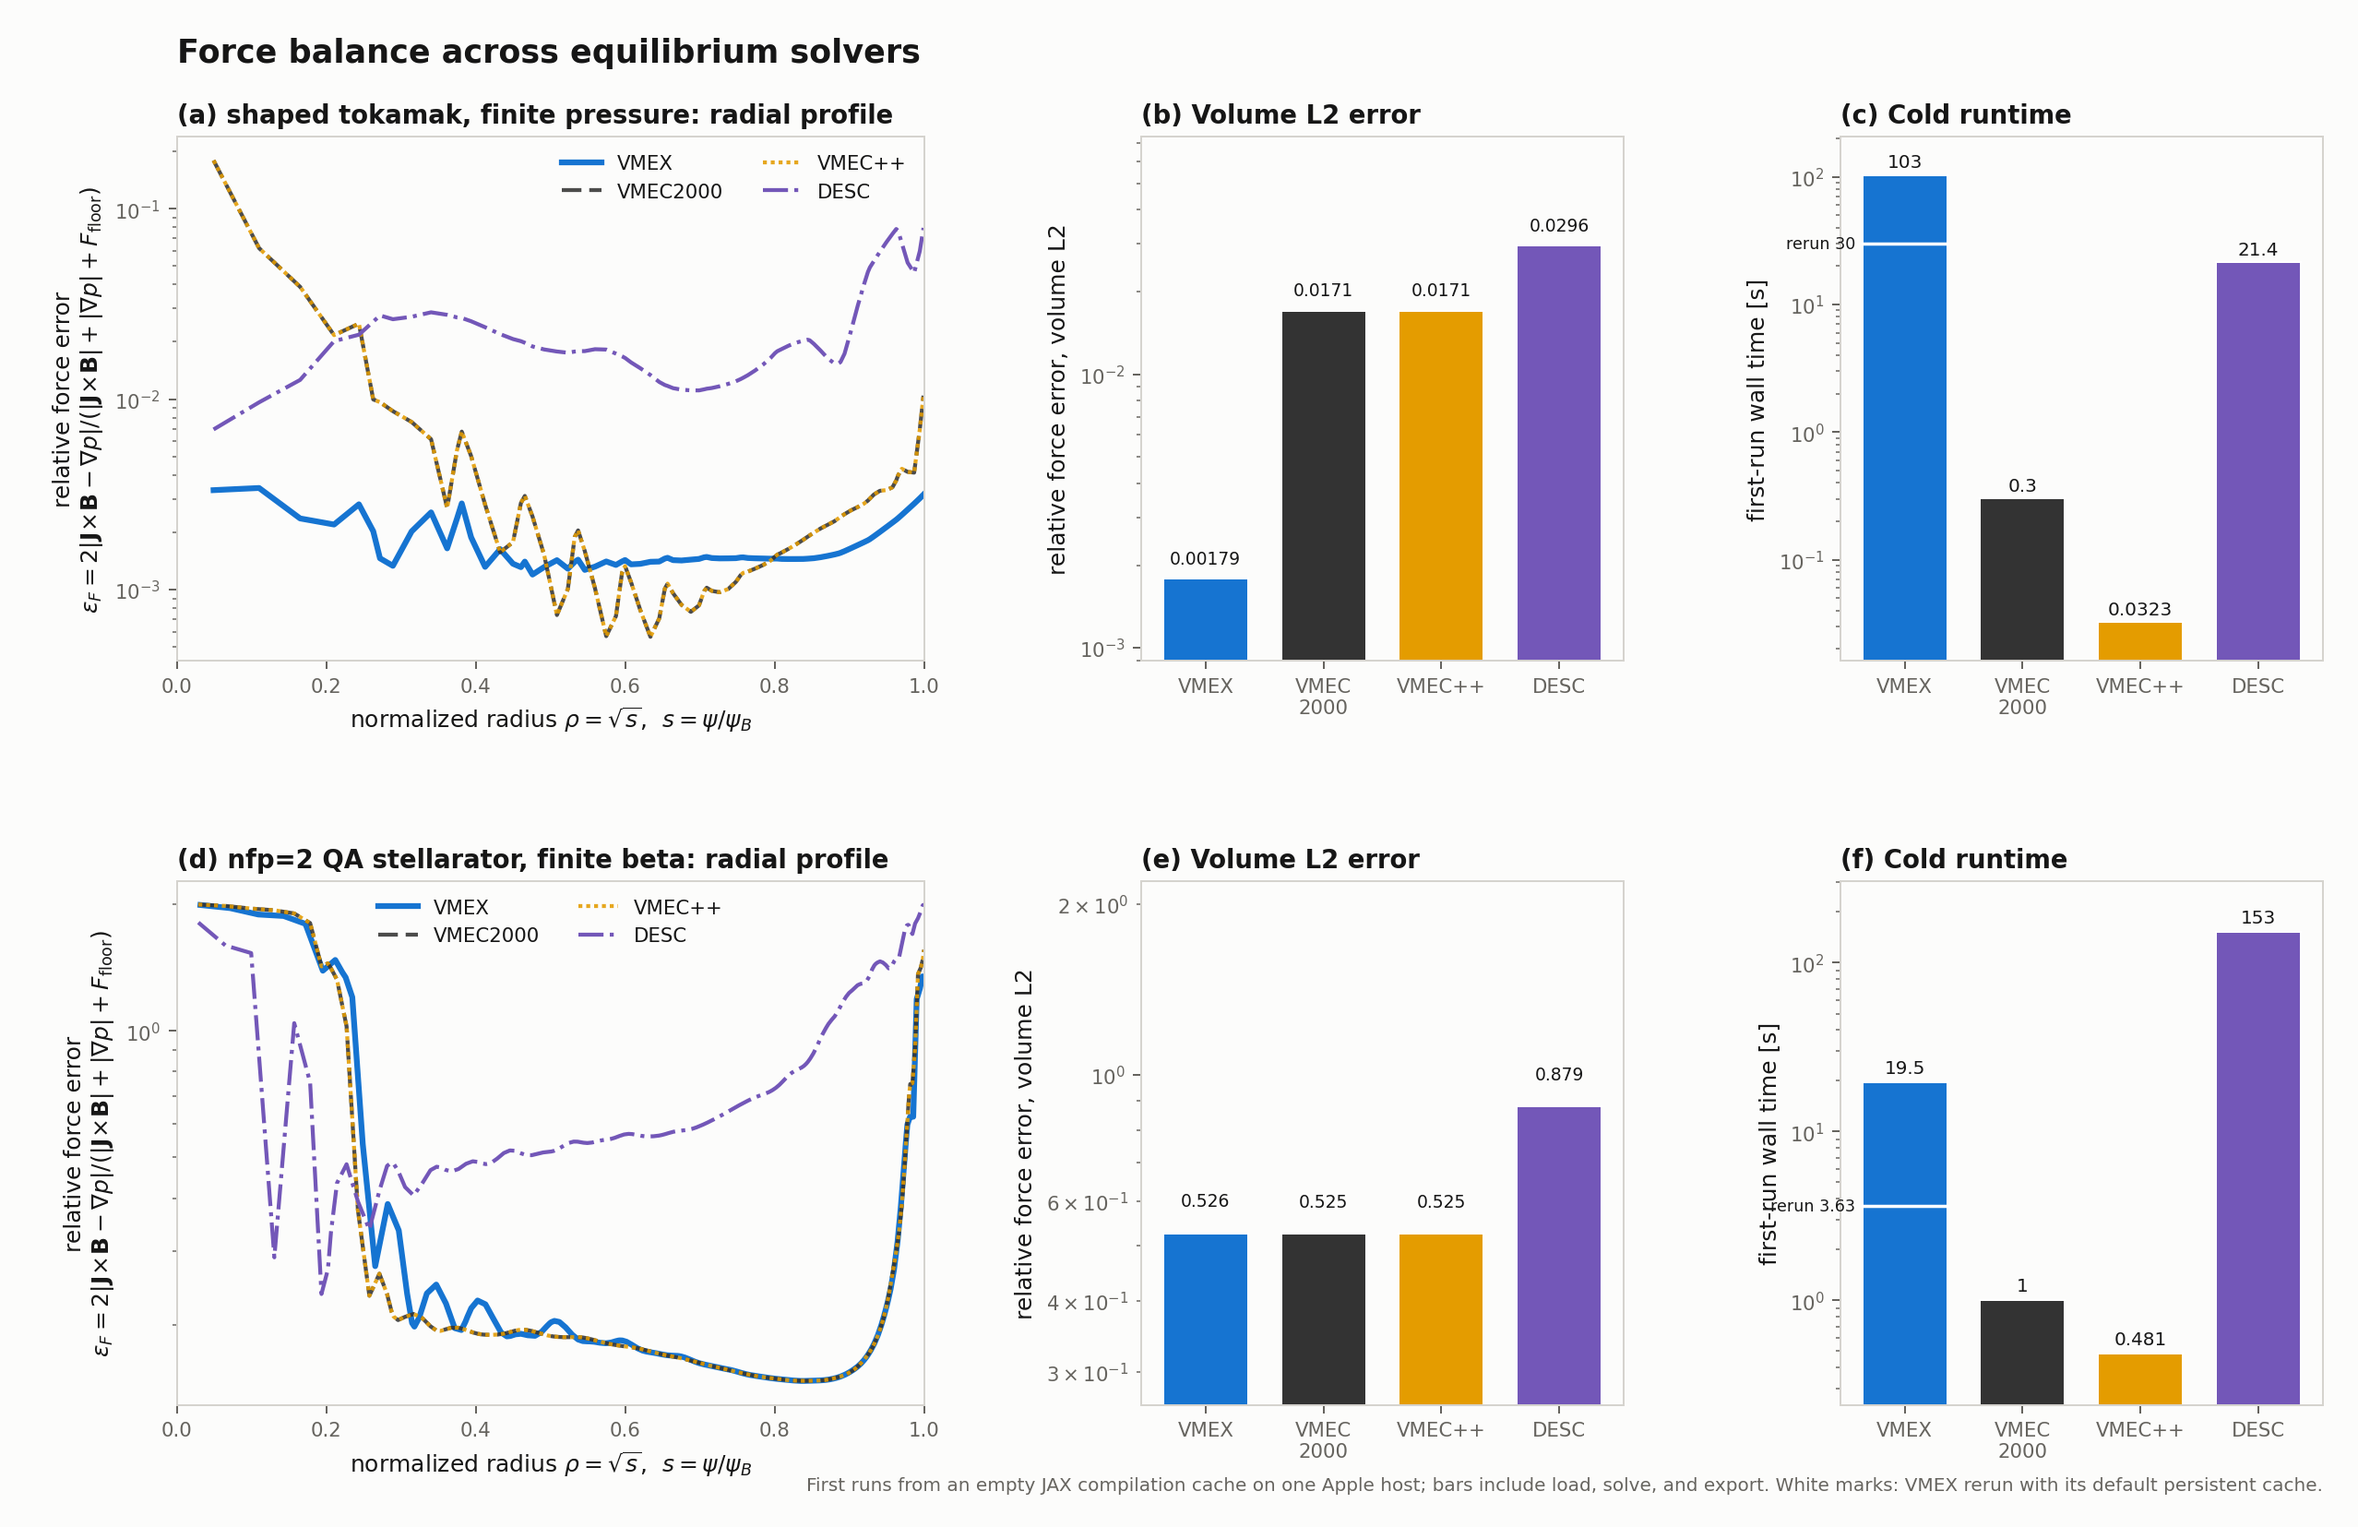
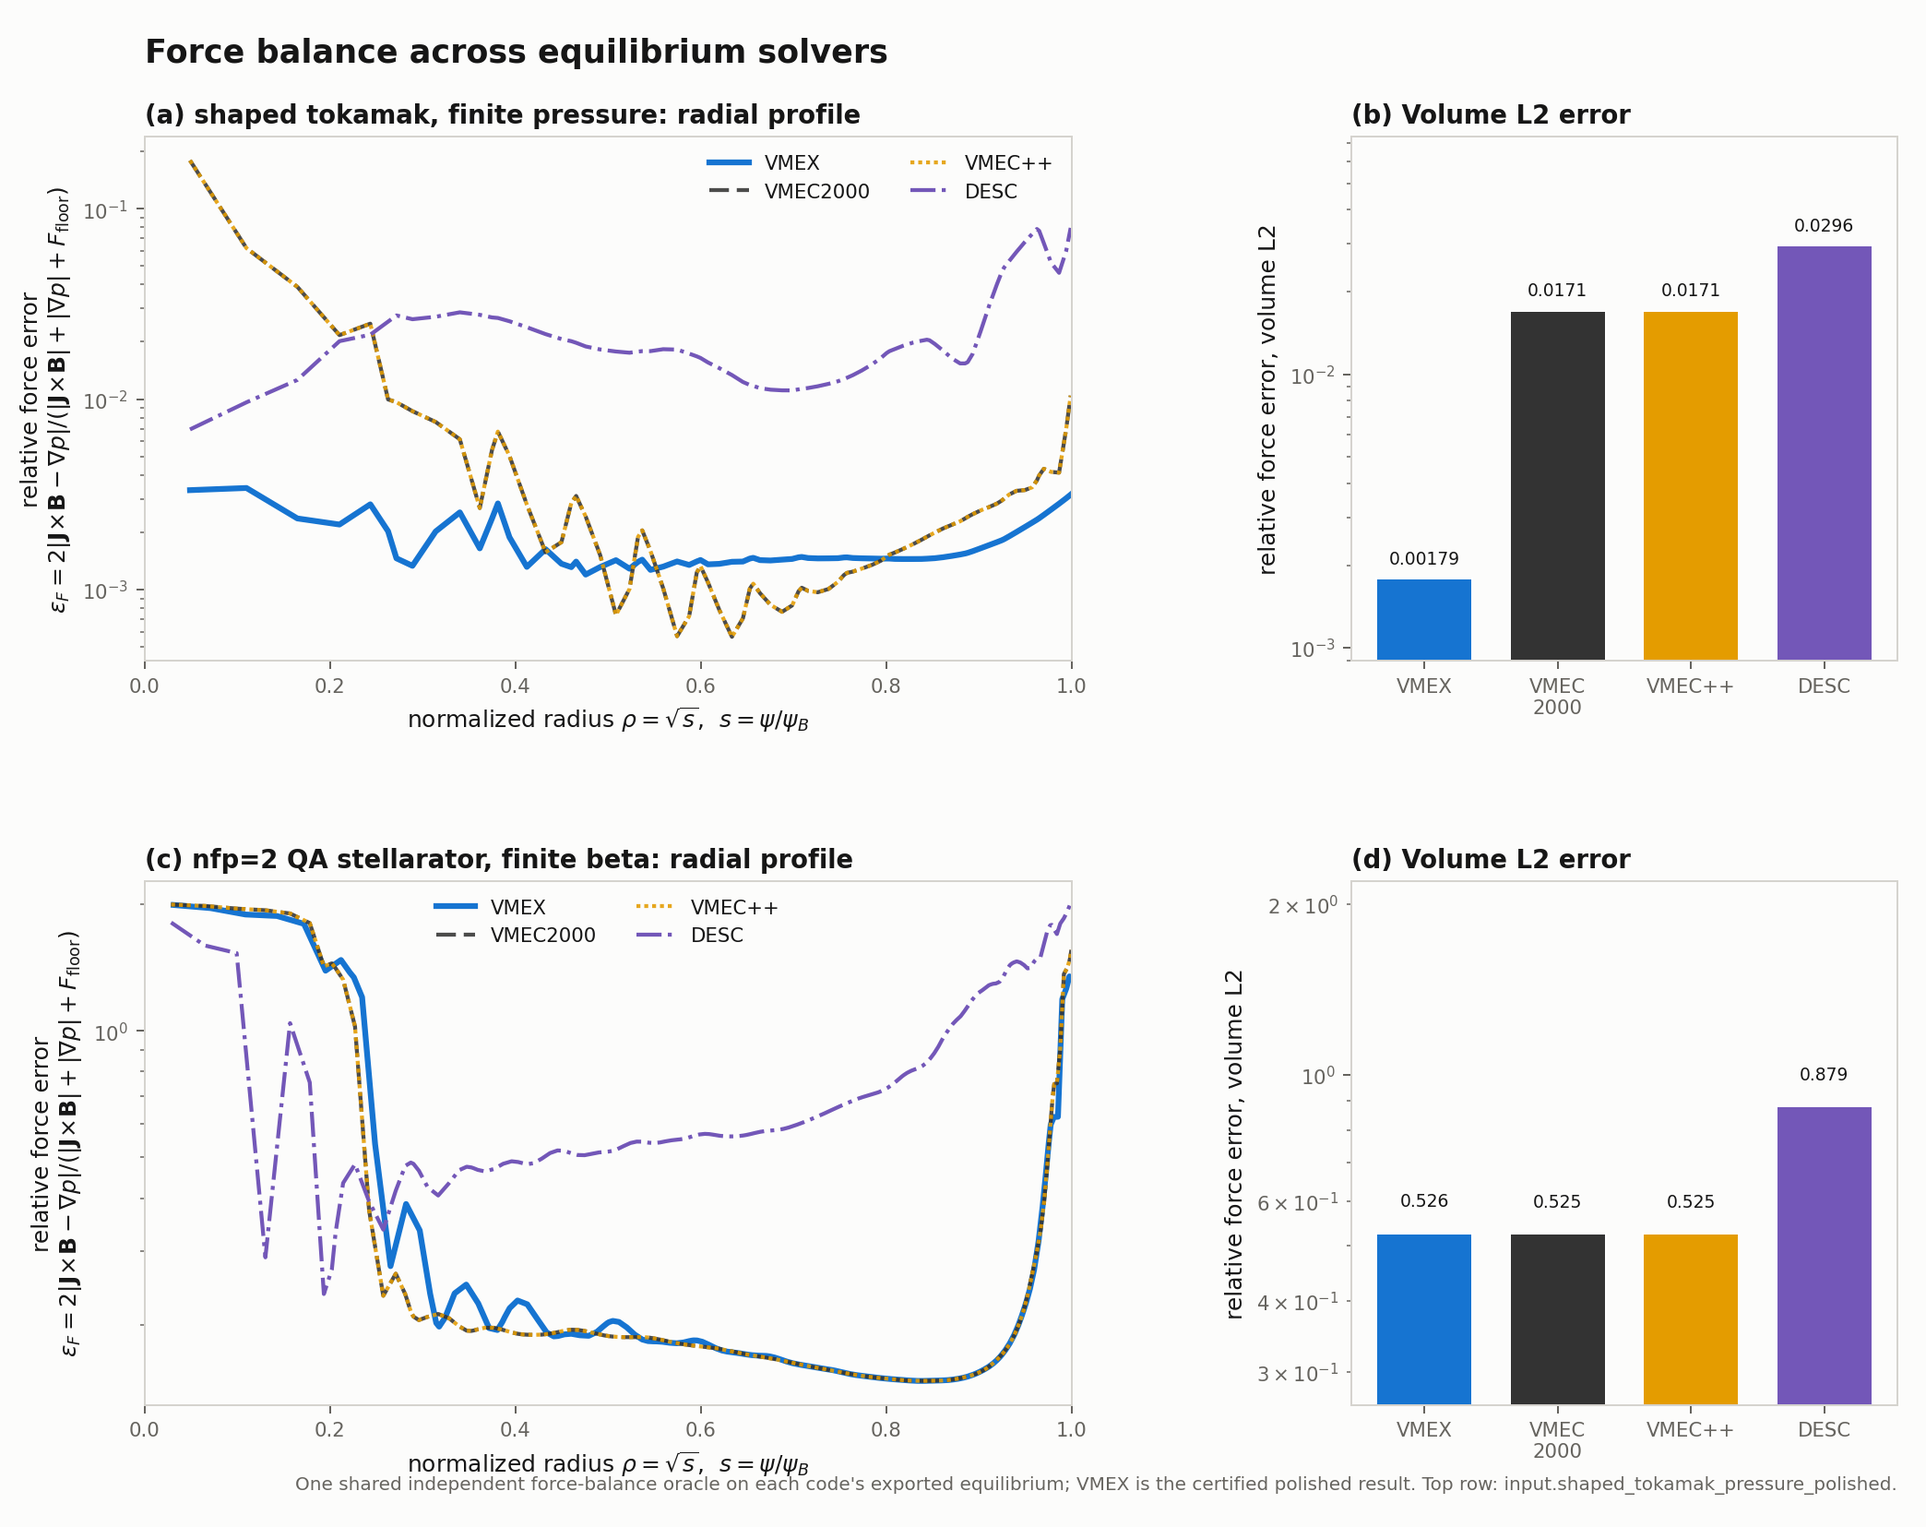
Show accuracy only in the force-balance comparison
Per the plan's README figure policy: the runtime panels come out until
VMEX end-to-end times are competitive with the legacy codes on the shown
cases - runtime evidence stays in benchmarks/baselines and PR bodies
while the performance program keeps driving at that bar. The figure is
two panels per row (radial profile, volume-L2 bars), the README's timing
prose goes with it, and the metadata note states the policy.

diff --git a/benchmarks/make_strong_force_comparison.py b/benchmarks/make_strong_force_comparison.py
@@ -102,22 +102,12 @@ def _style() -> None:
     )
 
 
-def _timing(artifact: dict) -> float:
-    external = artifact.get("external_source")
-    if external is None:
-        return float(artifact["solve_seconds"])
-    if "timing_seconds" in external:
-        return float(external["timing_seconds"]["total"])
-    return float(external["total_seconds"])
-
-
 def _render_row(
     axes,
     artifacts: dict[str, dict],
     *,
     case_label: str,
     letters: tuple[str, str, str],
-    timing_names: tuple[str, ...],
 ) -> None:
     artifacts = {name: artifacts[name] for name in COLORS}
     line_styles = {
@@ -193,59 +183,20 @@ def _render_row(
         fontweight="bold",
     )
 
-    timings = [_timing(artifacts[name]) for name in timing_names]
-    ax = axes[2]
-    x = np.arange(len(timing_names))
-    bars = ax.bar(
-        x,
-        timings,
-        0.72,
-        color=[COLORS[name] for name in timing_names],
-        edgecolor="white",
-        linewidth=0.8,
-    )
-    ax.set_xticks(x)
-    ax.set_xticklabels([labels.get(name, name) for name in timing_names])
-    ax.set_ylabel("first-run wall time [s]")
-    for index, name in enumerate(timing_names):
-        external = artifacts[name].get("external_source") or {}
-        rerun = external.get("rerun_solve_seconds")
-        if rerun is not None:
-            ax.hlines(float(rerun), index - 0.36, index + 0.36,
-                      colors="white", linewidth=1.4, zorder=5)
-            ax.annotate(
-                f"rerun {float(rerun):.3g}", (index - 0.42, float(rerun)),
-                ha="right", va="center", fontsize=7.0, color=INK, zorder=6)
-    ax.set_yscale("log")
-    ax.set_ylim(max(0.005, min(timings) * 0.5), max(timings) * 2.0)
-    for bar in bars:
-        ax.text(
-            bar.get_x() + bar.get_width() / 2,
-            bar.get_height() * 1.08,
-            f"{bar.get_height():.3g}",
-            ha="center",
-            va="bottom",
-            fontsize=8,
-        )
-    ax.set_title(
-        f"({letters[2]}) Cold runtime",
-        loc="left",
-        fontsize=11,
-        fontweight="bold",
-    )
-
-
 def render(
     tokamak: dict[str, dict],
     stellarator: dict[str, dict],
     output: Path,
 ) -> None:
     _style()
+    # Accuracy only, per the plan's README figure policy: runtime panels
+    # return when VMEX end-to-end times are competitive; runtime evidence
+    # lives in benchmarks/baselines meanwhile.
     fig, axes = plt.subplots(
         2,
-        3,
-        figsize=(14.2, 9.2),
-        gridspec_kw={"width_ratios": (1.55, 1.0, 1.0)},
+        2,
+        figsize=(11.6, 9.2),
+        gridspec_kw={"width_ratios": (1.7, 1.0)},
         dpi=180,
     )
     fig.subplots_adjust(
@@ -268,20 +219,18 @@ def render(
         axes[0],
         tokamak,
         case_label="shaped tokamak, finite pressure",
-        letters=("a", "b", "c"),
-        timing_names=("VMEX", "VMEC2000", "VMEC++", "DESC"),
+        letters=("a", "b"),
     )
     _render_row(
         axes[1],
         stellarator,
         case_label="nfp=2 QA stellarator, finite beta",
-        letters=("d", "e", "f"),
-        timing_names=("VMEX", "VMEC2000", "VMEC++", "DESC"),
+        letters=("c", "d"),
     )
     fig.text(
         0.985,
         0.022,
-        "First runs from an empty JAX compilation cache on one Apple host; bars include load, solve, and export. White marks: VMEX rerun with its default persistent cache.",
+        "One shared independent force-balance oracle on each code's exported equilibrium; VMEX is the certified polished result. Top row: input.shaped_tokamak_pressure_polished.",
         ha="right",
         va="bottom",
         fontsize=8,
@@ -398,12 +347,11 @@ def main() -> None:
             }
         ),
         "timing_note": (
-            "First-run wall time: process start, load, solve, and export on "
-            "one Apple host with an empty JAX compilation cache; the top row "
-            "is the bundled input.shaped_tokamak_pressure_polished deck. The "
-            "VMEX rerun marker is the same command with the persistent cache "
-            "the first run populated (on by default); the legacy codes have "
-            "no JIT stage, so their reruns match their first runs."
+            "Accuracy only, per the plan's README figure policy: runtime "
+            "evidence lives in benchmarks/baselines until VMEX end-to-end "
+            "times are competitive. All errors from one shared independent "
+            "oracle on each code's exported equilibrium (VMEX: the certified "
+            "polished state)."
         ),
     }
     args.metadata.write_text(json.dumps(metadata, indent=2, sort_keys=True) + "\n")

diff --git a/README.md b/README.md
@@ -106,11 +106,11 @@ vmex examples/data/input.finite_beta_stellarator_polished --plot
 python examples/force_balance_polishing.py
 ```
 
-The comparison below applies the same independent force oracle to VMEX,
-VMEC2000, VMEC++, and DESC. The top row is the bundled finite-pressure shaped
-tokamak; the bottom row is a finite-beta, two-field-period QA stellarator.
-Timings include load, solve, and export from a fresh process. Persistent-cache
-VMEX reruns are marked separately.
+The comparison below applies the same independent force oracle to the
+exported equilibrium of each code - VMEX, VMEC2000, VMEC++, and DESC. The top
+row is the bundled finite-pressure shaped tokamak; the bottom row is a
+finite-beta, two-field-period QA stellarator. VMEX is the certified polished
+result in both rows.
 
 ![Finite-pressure tokamak and finite-beta stellarator force-balance comparisons](docs/_static/figures/readme_strong_force_comparison.webp)
 
